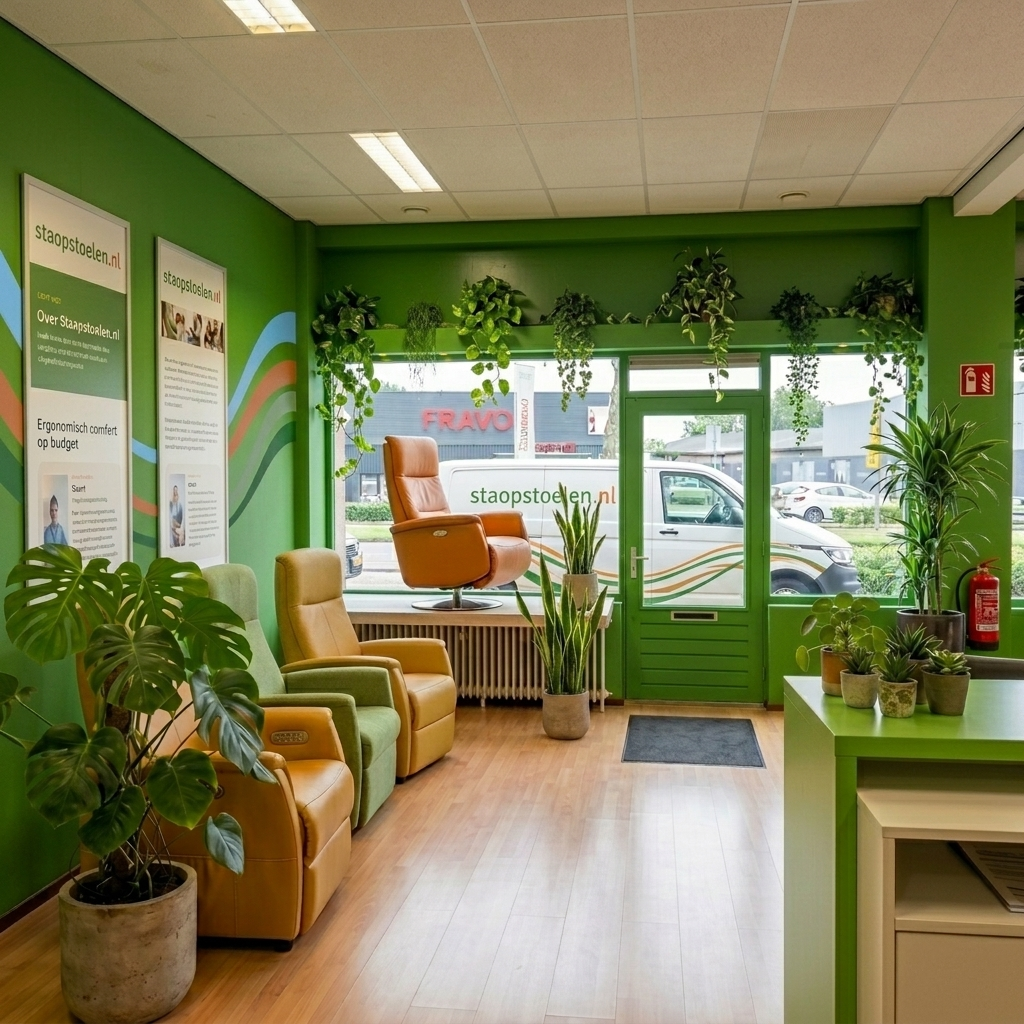
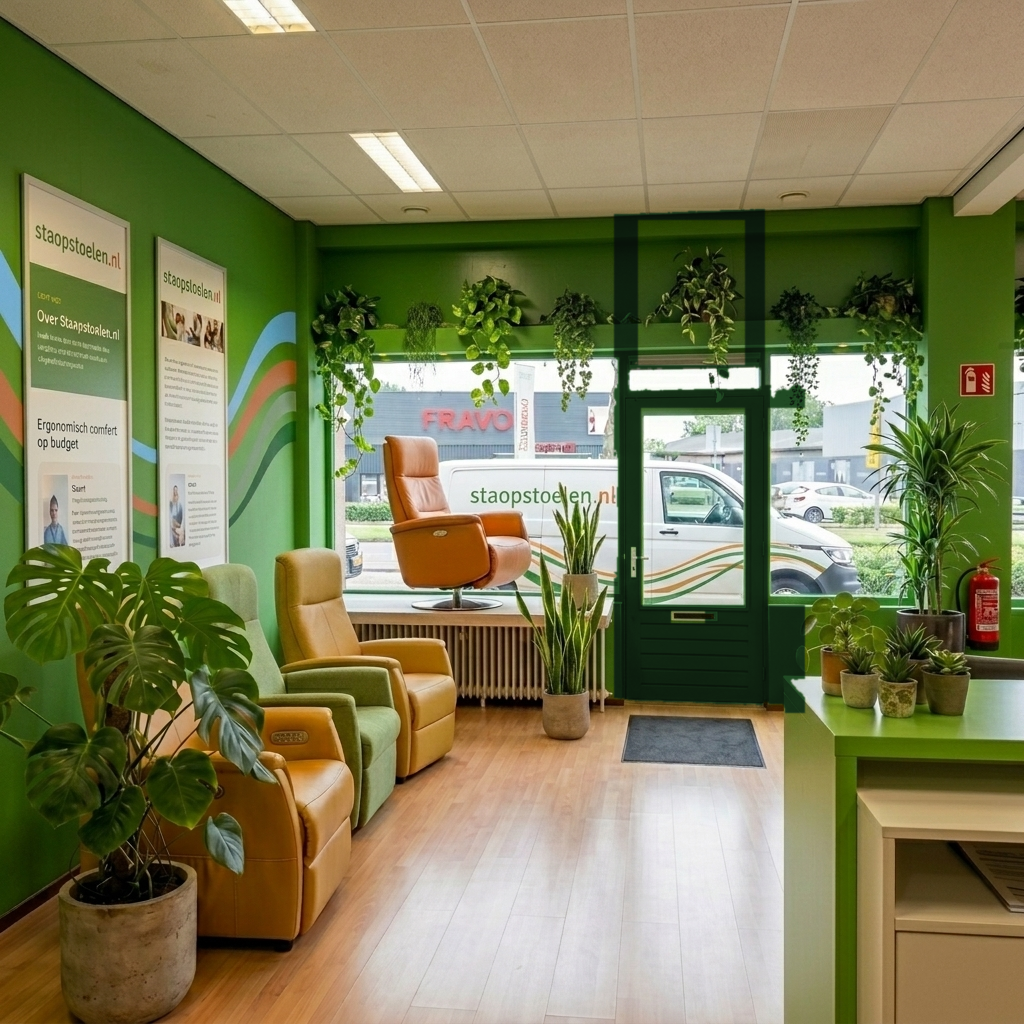
style: verander voordeur en kozijn naar chique donkergroen (monumentengroen) in showroom_orange_chair.png

Changed region(s): [[0.5938, 0.1875, 0.8125, 0.7188]]

diff --git a/winkel.html b/winkel.html
@@ -645,7 +645,7 @@
         <div class="gallery-item" style="border: 3px solid var(--color-sage);">
           <div class="gallery-img-container" style="position: relative;">
             <span style="position: absolute; top: 12px; left: 12px; background: var(--color-forest); color: #ffffff; font-size: 0.75rem; font-weight: 700; padding: 4px 10px; border-radius: 6px; z-index: 2; text-transform: uppercase;">Etalage Opgepompt</span>
-            <img src="assets/showroom_orange_chair.png?v=1.0.54" alt="Oranje stoel prominent in de etalage met rollators weggehaald" class="gallery-img">
+            <img src="assets/showroom_orange_chair.png?v=1.0.55" alt="Oranje stoel prominent in de etalage met rollators weggehaald" class="gallery-img">
           </div>
           <div class="gallery-caption">
             <strong>Etalage zonder rollators:</strong> De bestaande pui en het vertrouwde zicht naar de Merwedestraat, maar nu met een prachtige lederen stoel prominent in het raam.
